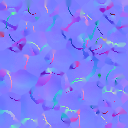
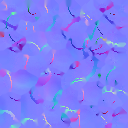
Hang soft unlit clouds over the painted cut-in stage

diff --git a/generators/models/modelgen/terrain/cloud.py b/generators/models/modelgen/terrain/cloud.py
@@ -9,7 +9,7 @@ TEXTURE = 256
 NORMAL_TEXTURE = 128
 CAGE = 0.05
 REACH = 0.15
-ROLES = {"cloud": Role((0.93, 0.95, 0.98), edge=0.0, wash=0.28, dust=0.0)}
+ROLES = {"cloud": Role((0.97, 0.98, 1.0), edge=0.0, wash=0.2, dust=0.0)}
 PUFFS = (
     (0.0, 0.0, 0.12, 0.42, 0.3, 0.26),
     (-0.42, 0.04, 0.06, 0.3, 0.24, 0.18),
@@ -23,5 +23,6 @@ PUFFS = (
 
 def build(k: Kit) -> None:
     k.cull = False
+    k.smooth_angle = 180.0
     for x, y, z, rx, ry, rz in PUFFS:
         k.ellipsoid((x, y, z), (rx, ry, rz), "cloud", 6, 10, "puff")
